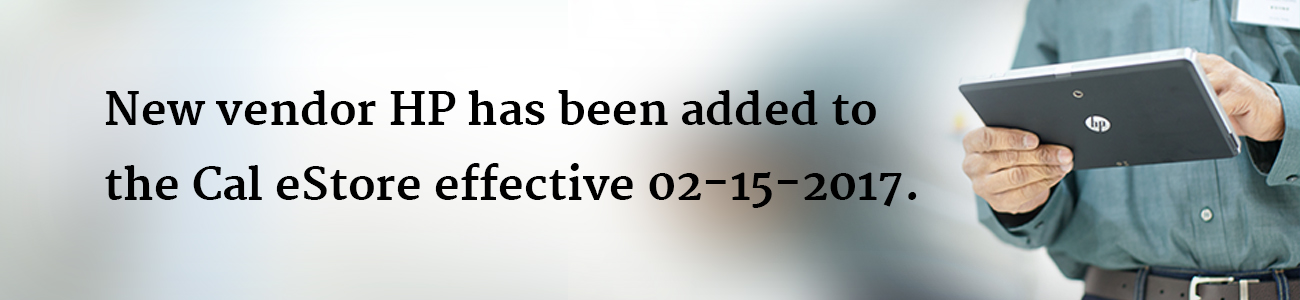
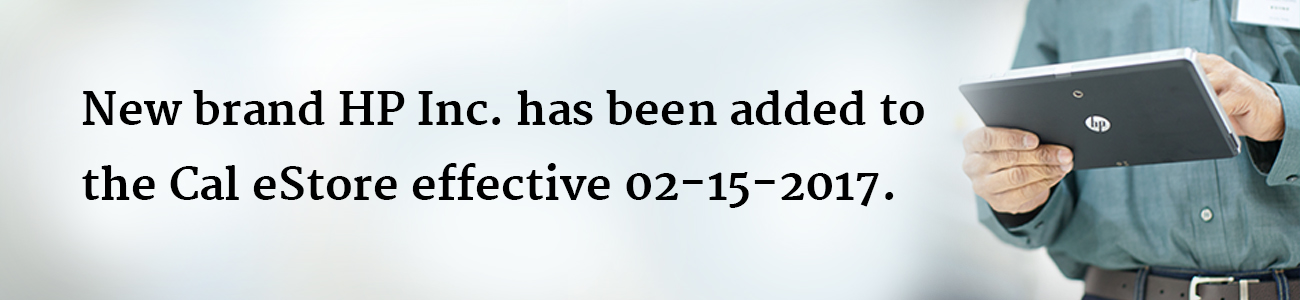
defext fixes for order mgmt and slider images replaced HP Inc

Changed region(s): [[0.0308, 0.06, 0.8, 1.0]]

diff --git a/src/main/java/com/hpe/calEStore/web/controller/OrderController.java b/src/main/java/com/hpe/calEStore/web/controller/OrderController.java
@@ -47,32 +47,31 @@ public class OrderController {
 	private OrderService orderService;
 	@Autowired
 	private ProductService productService;
-	
-	
 
 	@RequestMapping(value = "/addForCart")
 	@ResponseStatus(value = HttpStatus.OK)
-	public void addToCart(
-			@RequestParam("productId") int productId,
-			/*@ModelAttribute("cartItemsMap") HashMap<Integer, Integer> cartItemsMap*/
-			HttpSession session) {
+	public void addToCart(@RequestParam("productId") int productId,
+	/* @ModelAttribute("cartItemsMap") HashMap<Integer, Integer> cartItemsMap */
+	HttpSession session) {
 		HashMap<Integer, Integer> cartItemsMap = new HashMap<Integer, Integer>();
 		if (session.getAttribute("cartItemsMap") != null) {
-			cartItemsMap = (HashMap<Integer, Integer>) (session.getAttribute("cartItemsMap"));
+			cartItemsMap = (HashMap<Integer, Integer>) (session
+					.getAttribute("cartItemsMap"));
 			cartItemsMap.put(productId, 1);
 		}
 	}
-	
+
 	@RequestMapping(value = "/removeFromCart")
 	@ResponseStatus(value = HttpStatus.OK)
-	public void removeFromCart(
-			@RequestParam("productId") int productId,
-			/*@ModelAttribute("cartItemsMap") HashMap<Integer, Integer> cartItemsMap*/
-			HttpSession session) {
+	public void removeFromCart(@RequestParam("productId") int productId,
+	/* @ModelAttribute("cartItemsMap") HashMap<Integer, Integer> cartItemsMap */
+	HttpSession session) {
 		HashMap<Integer, Integer> cartItemsMap = new HashMap<Integer, Integer>();
 		if (session.getAttribute("cartItemsMap") != null) {
-			cartItemsMap = (HashMap<Integer, Integer>) (session.getAttribute("cartItemsMap"));
+			cartItemsMap = (HashMap<Integer, Integer>) (session
+					.getAttribute("cartItemsMap"));
 			cartItemsMap.remove(productId);
+			System.out.println("size of the map" + cartItemsMap.size());
 		}
 	}
 
@@ -101,6 +100,21 @@ public class OrderController {
 		return mv;
 	}
 
+	@RequestMapping(value = "/oderTrack1", method = RequestMethod.GET)
+	public ModelAndView trackOrders1() {
+		ModelAndView mv = new ModelAndView("order.detail");
+		String userEmail = SecurityContextHolder.getContext()
+				.getAuthentication().getName();
+		if (!(userEmail.equals(""))) {
+			List<PurchaseOrder> poList = orderService
+					.getAllOrdersWithStatus(userEmail);
+			mv.addObject("latestOrder", poList.get(0));
+			poList.remove(0);
+			mv.addObject("poList",poList);
+		}
+		return mv;
+	}
+
 	@RequestMapping(value = "/oderTrack", method = RequestMethod.GET)
 	public ModelAndView trackOrders() {
 		ModelAndView mv = new ModelAndView("order.detail");
@@ -110,29 +124,72 @@ public class OrderController {
 			try {
 				List<PurchaseOrder> orderDetailsMap = orderService
 						.getAllOrdersWithStatus(userEmail);
+				System.out.println("orderDetailsMap size: "
+						+ orderDetailsMap.size());
 
-				int currentOrderId = orderDetailsMap.get(0).getOrderId();
-				String currentOrderStatus = orderDetailsMap.get(0).getStatus()
-						.getStatusName();
-				Set<ProductOrder> orderList = orderDetailsMap.get(0)
-						.getProductOrders();
-				Iterator itr = orderList.iterator();
+				int currentOrderId;
+				String currentOrderStatus;
+				ProductOrder prodName = null;
 				StringBuilder productName = new StringBuilder();
-				while (itr.hasNext()) {
-					ProductOrder prodName = (ProductOrder) itr.next();
-					productName.append(prodName.getProduct().getProductName())
-							.append("\n");
+				;
+				if (orderDetailsMap.size() == 1) {
+
+					for (PurchaseOrder orderlist : orderDetailsMap) {
+						currentOrderId = orderlist.getOrderId();
+						currentOrderStatus = orderlist.getStatus()
+								.getStatusName();
+						System.out.println(":::::" + orderlist.getOrderId());
+						System.out.println(":::::"
+								+ orderlist.getStatus().getStatusName());
+						mv.addObject("orderDetailsMap", orderDetailsMap);
+						mv.addObject("currentOrderId", currentOrderId);
+						mv.addObject("currentOrderStatus", currentOrderStatus);
+					}
+				} else {
+					currentOrderId = orderDetailsMap.get(0).getOrderId();
+					currentOrderStatus = orderDetailsMap.get(0).getStatus()
+							.getStatusName();
+					for (PurchaseOrder orderlist : orderDetailsMap) {
+
+						Set<ProductOrder> orderList = orderlist
+								.getProductOrders();
+
+						Iterator itr = orderList.iterator();
+
+						while (itr.hasNext()) {
+							prodName = (ProductOrder) itr.next();
+							productName.append(
+									prodName.getProduct().getProductName())
+									.append("\n");
+							System.out.println("product description:"
+									+ productName);
+						}
+					}
+					// }
+					// Set<ProductOrder> orderList = ((Product)
+					// orderDetailsMap).getProductOrders();
+					// System.out.println("size::"+orderDetailsMap.size());
+					// Iterator itr = orderList.iterator();
+					// productName = new StringBuilder();
+					// ProductOrder prodName = null;
+					// while (itr.hasNext()) {
+					// prodName= (ProductOrder) itr.next();
+					// productName.append(
+					// prodName.getProduct().getProductName()).append(
+					// "\n");
+					// System.out.println("product description:" +productName);
+					// }
+					orderDetailsMap.remove(0);
+					orderDetailsMap.get(0).getProductOrders();
+
+					mv.addObject("orderDetailsMap", orderDetailsMap);
+					mv.addObject("currentOrderId", currentOrderId);
+					mv.addObject("currentOrderStatus", currentOrderStatus);
+					mv.addObject("prodName", prodName);
 				}
-				//logger.debug("product information:" + productName);
-				orderDetailsMap.remove(0);
-				orderDetailsMap.get(0).getProductOrders();
-				mv.addObject("orderDetailsMap", orderDetailsMap);
-				mv.addObject("currentOrderId", currentOrderId);
-				mv.addObject("currentOrderStatus", currentOrderStatus);
-				mv.addObject("productName", productName);
 			} catch (Exception e) {
 				// TODO Auto-generated catch block
-				logger.error(e);
+				System.out.println(e);
 			}
 		}
 		return mv;
@@ -146,19 +203,18 @@ public class OrderController {
 				.getAuthentication().getName();
 		if (!(userEmail.equals(""))) {
 			try {
-				UserProfile usrAdd = orderService
-						.getAddressByUser(userEmail);
+				UserProfile usrAdd = orderService.getAddressByUser(userEmail);
 				Set<Address> userAddresses = usrAdd.getAddresses();
 				StringBuilder shipToAddress = getAddress(userAddresses);
 				mv.addObject("shipToAddress", shipToAddress);
 			} catch (Exception e) {
 				// TODO Auto-generated catch block
-				logger.info(""+e);
+				logger.info("" + e);
 			}
 			String userDepartmentName = orderService
 					.getUserDepartmentName(userEmail);
 			mv.addObject("userDepartmentName", userDepartmentName);
-			
+
 		}
 		return mv;
 	}
@@ -177,27 +233,28 @@ public class OrderController {
 		}
 		return shipToAddress;
 	}
-	
+
 	@SuppressWarnings("unchecked")
 	@RequestMapping(value = "/saveOrder", method = RequestMethod.GET)
-	public ModelAndView saveOrder(
-			String userId,
-			/*@ModelAttribute("cartItemsMap") HashMap<Integer, Integer> cartItemsMap*/
-			HttpSession session) {
+	public ModelAndView saveOrder(String userId,
+	/* @ModelAttribute("cartItemsMap") HashMap<Integer, Integer> cartItemsMap */
+	HttpSession session) {
 		ModelAndView mv = new ModelAndView("order.thankyou");
 		String userEmail = SecurityContextHolder.getContext()
 				.getAuthentication().getName();
-		HashMap<Integer, Integer> cartItemsMap = (HashMap<Integer, Integer> ) session
+		HashMap<Integer, Integer> cartItemsMap = (HashMap<Integer, Integer>) session
 				.getAttribute("cartItemsMap");
-		if(userEmail!=null){
-		try {
-			orderService.saveProceessedOrder(userEmail, cartItemsMap);
-		} catch (Exception e) {
-			// TODO Auto-generated catch block
-			logger.error(e);
-		}
-		cartItemsMap = new HashMap<Integer, Integer>();
-		mv.addObject("cartItemsMap", cartItemsMap);
+		if (userEmail != null) {
+			try {
+				System.out.println("email: " + userEmail + "size:"
+						+ cartItemsMap.size());
+				orderService.saveProceessedOrder(userEmail, cartItemsMap);
+			} catch (Exception e) {
+				// TODO Auto-generated catch block
+				System.out.println(e);
+			}
+			cartItemsMap = new HashMap<Integer, Integer>();
+			mv.addObject("cartItemsMap", cartItemsMap);
 		}
 		return mv;
 	}
@@ -224,7 +281,8 @@ public class OrderController {
 		StringBuilder productName = new StringBuilder();
 		while (itr.hasNext()) {
 			ProductOrder prodName = (ProductOrder) itr.next();
-			productName.append(prodName.getProduct().getProductName()).append("\n");
+			productName.append(prodName.getProduct().getProductName()).append(
+					"\n");
 		}
 		orderDetailsMap.remove(0);
 		orderDetailsMap.get(0).getProductOrders();

diff --git a/src/main/java/com/hpe/calEStore/dao/impl/OrderDAOImpl.java b/src/main/java/com/hpe/calEStore/dao/impl/OrderDAOImpl.java
@@ -65,10 +65,14 @@ public class OrderDAOImpl extends AbstractDAO<Serializable, PurchaseOrder> imple
 	@Override
 	public List<PurchaseOrder> getAllOrdersWithStatus(String emailId) {
 
-
+		System.out.println("useremail"+emailId);
+		System.out.println("+++++++++++++++++++"+getAddressByUser(emailId).getUserId());
+		
+		int uderID = getAddressByUser(emailId).getUserId();
 		List<PurchaseOrder> purchaseOrders = createEntityCriteria()
-				.add(Restrictions.eq("userProfile.userId", getAddressByUser(emailId).getUserId()))
+				.add(Restrictions.eq("userProfile.userId", uderID))
 				.addOrder(Order.desc("orderDate")).list();
+		System.out.println("purchaseOrders size:"+purchaseOrders.size());
 
 		return purchaseOrders;
 	}
@@ -79,6 +83,7 @@ public class OrderDAOImpl extends AbstractDAO<Serializable, PurchaseOrder> imple
 
 		PurchaseOrder purchaseOrder = new PurchaseOrder();
 		Address address = new Address();
+		System.out.println("useremail"+emailId);
 		UserProfile userProfile = (UserProfile) getSession().createCriteria(UserProfile.class)
 				.add(Restrictions.eq(EMAIL_ID, emailId)).uniqueResult();
 
